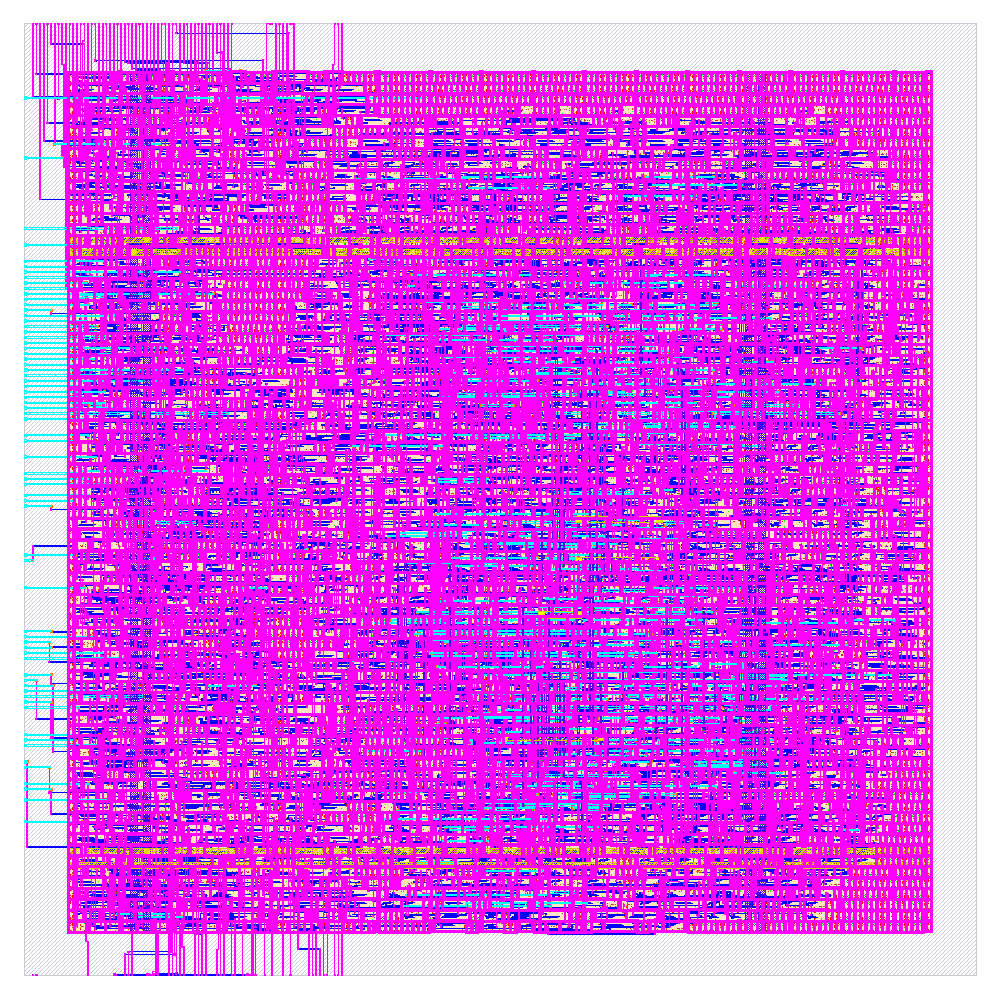
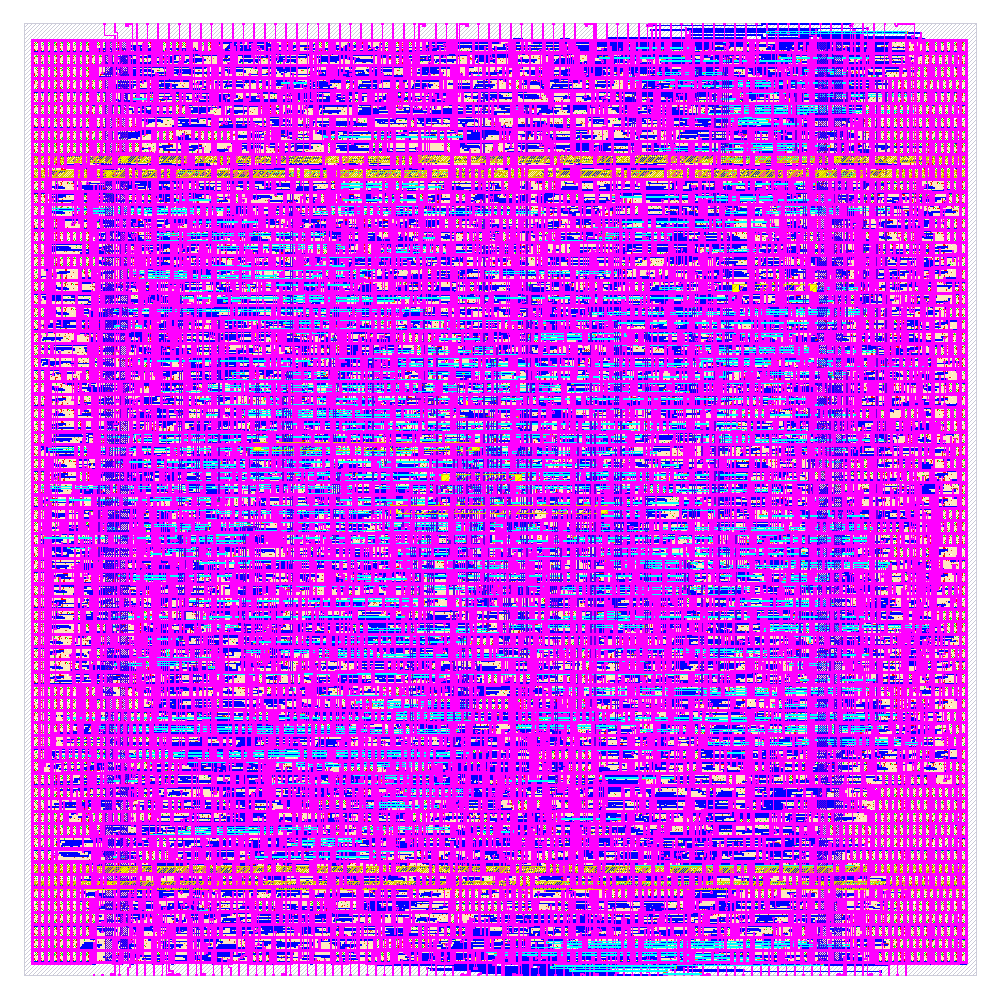
results, SERV flow: sync to the final SERV layout s8 (205 x 205 um, 76 MHz)
SERV sky130: config (76 MHz, 205 um die, nano margins) + pin_order.cfg (pins N + S), metrics
and render of run s8 (30 657 um2 cells, 76.8 %, clean, ss setup +1.67 ns, hold +93 ps).
results/README.md: die 42 025 um2 (nano 1.76x smaller), cpi_bench 803 ms (nano 2.67x faster,
2.4x at equal margin), energy 5.338 uJ (6.5x), 4.7x speed per area; margin and density notes.
bench/cpi_test/README.md: SERV rows at 76 MHz (nano 2.4x sooner).
fc32e1s_nano_asic README: block diagram, single-stage multi-cycle note.

diff --git a/results/README.md b/results/README.md
@@ -9,18 +9,18 @@ FPGA, each against SERV built for the same target:
 | ASIC, SkyWater sky130 | `fc32e1s_nano_asic` (byte-serial ALU, latch register file) | SERV RV32E, latch register file |
 | FPGA, Xilinx 7-series (Vivado) | `fc32e1s_nano_fpga` (32-bit ALU, LUTRAM register file) | SERV, register file in block RAM |
 
-Date: 2026-11-08.
+Date: 2026-11-11 (SERV sky130 layout s8).
 
 ## Summary
 
 | | ASIC (sky130) | FPGA (Vivado, core alone) |
 |---|---|---|
-| nano runs the benchmark | **2.4x faster** (2.1x at equal timing margin) | **6.7x faster** |
-| at a clock of | 36 MHz vs SERV's 85 MHz | 81.7 MHz vs SERV's 150.4 MHz |
-| size | **2.4x smaller die** | 4.3x more LUTs (529 vs 123); SERV + 1 RAMB18 |
-| other | **6.4x less energy** (gate-level activity) | **1.56x more speed per LUT** |
+| nano runs the benchmark | **2.7x faster** (2.4x at equal timing margin) | **6.7x faster** |
+| at a clock of | 36 MHz vs SERV's 76 MHz | 81.7 MHz vs SERV's 150.4 MHz |
+| size | **1.76x smaller die** | 4.3x more LUTs (529 vs 123); SERV + 1 RAMB18 |
+| other | **6.5x less energy** (gate-level activity) | **1.56x more speed per LUT** |
 
-SERV clocks 2.4x (ASIC) and 1.8x (FPGA) higher, but needs 5.6x and 12.4x more cycles for the
+SERV clocks 2.1x (ASIC) and 1.8x (FPGA) higher, but needs 5.6x and 12.4x more cycles for the
 same C program. On sky130 the nano is both smaller and faster; on an FPGA SERV stays the smallest
 core and the nano buys 6.7x the speed for 4.3x the LUTs.
 
@@ -58,22 +58,22 @@ layouts are the core with its bus pins. Configs and metrics are in [`sky130/`](s
 | ISA, registers | RV32E, 6 (x0 ra sp a0..a2) | RV32E, 16 (x0..x15) |
 | Datapath | byte-serial ALU | bit-serial |
 | Register file | latches, one clock gate per byte lane | latches (`dlxtp_1`), one clock gate per word |
-| Die | 153.5 x 155.3 um = **23 843 um2** | 238 x 238 um = **56 644 um2** |
-| Standard cells | **18 505 um2** | **30 895 um2** |
+| Die | 153.5 x 155.3 um = **23 843 um2** | 205 x 205 um = **42 025 um2** |
+| Standard cells | **18 505 um2** | **30 657 um2** |
 | of which sequential | 5 095 um2 | 13 992 um2 |
-| Cell density (fill excluded) | 82.7 % | 66.6 % |
-| Clock (signed off) | **36 MHz** (ss Fmax 37.0 MHz, max RC) | **85 MHz** (ss setup slack +1.59 ns) |
-| Hold, worst | +0.106 ns | +0.0015 ns |
+| Cell density (fill excluded) | 82.7 % | 76.8 % |
+| Clock (signed off) | **36 MHz** (ss Fmax 37.0 MHz, max RC) | **76 MHz** (ss setup slack +1.67 ns) |
+| Hold, worst | +0.106 ns | +0.093 ns |
 | DRC (Magic, KLayout) / LVS / antenna | clean | clean |
 | Max slew (1.1 ns limit) | 1 net at 1.13 ns (ss) | clean |
-| Wire length | 67.7 mm | 68.8 mm |
-| Power, CPI test activity (tt) | **0.777 mW** at 36 MHz | **2.279 mW** at 85 MHz |
-| Power, vectorless (OpenSTA / LibreLane) | 1.95 / 2.33 mW | 4.82 / 5.71 mW |
+| Wire length | 67.7 mm | 74.6 mm |
+| Power, CPI test activity (tt) | **0.777 mW** at 36 MHz | **2.062 mW** at 76 MHz |
+| Power, vectorless (OpenSTA / LibreLane) | 1.95 / 2.33 mW | 4.40 / 5.22 mW |
 
 | fc32e1s_nano_asic | SERV, RV32E |
 |---|---|
 | ![fc32e1s_nano_asic layout](sky130/fc32e1s_nano_asic/fc32e1s_nano_asic_hard.png) | ![SERV layout](sky130/serv_rv32e/serv_rf_top_latch.png) |
-| 153.5 x 155.3 um | 238 x 238 um (images are not to the same scale) |
+| 153.5 x 155.3 um | 205 x 205 um, pins on N + S (images are not to the same scale) |
 
 Performance, `cpi_bench`, at each core's signed-off clock:
 
@@ -81,16 +81,16 @@ Performance, `cpi_bench`, at each core's signed-off clock:
 |---|---|---|---|
 | Cycles | 10 839 619 | 61 037 635 | 5.6x fewer |
 | CPI | 7.40 | 55.42 | |
-| Complete time | 10.84 M / 36 MHz = **301 ms** | 61.04 M / 85 MHz = **718 ms** | 2.39x faster |
-| Effective MIPS | **3.66** | **1.53** | 2.39x |
-| Native MIPS | 4.87 | 1.53 | |
+| Complete time | 10.84 M / 36 MHz = **301 ms** | 61.04 M / 76 MHz = **803 ms** | 2.67x faster |
+| Effective MIPS | **3.66** | **1.37** | 2.67x |
+| Native MIPS | 4.87 | 1.37 | |
 | Code (.text) | 5 460 B | 4 972 B | 1.10x larger |
-| Die area | 23 843 um2 | 56 644 um2 | 2.38x smaller |
-| Speed per die area | | | 5.7x |
-| Energy, from the CPI test's energy per cycle | 21.6 pJ x 10.84 M = **234 uJ** | 26.8 pJ x 61.04 M = **1637 uJ** | 7.0x less |
+| Die area | 23 843 um2 | 42 025 um2 | 1.76x smaller |
+| Speed per die area | | | 4.7x |
+| Energy, from the CPI test's energy per cycle | 21.6 pJ x 10.84 M = **234 uJ** | 27.2 pJ x 61.04 M = **1661 uJ** | 7.1x less |
 
-CPI test: nano 36 392 cycles, 1.01 ms (3.49 effective MIPS); SERV 183 729 cycles, 2.16 ms
-(1.63); 2.1x.
+CPI test: nano 36 392 cycles, 1.01 ms (3.49 effective MIPS); SERV 183 729 cycles, 2.42 ms
+(1.46); 2.4x.
 
 **Energy, measured.** `cpi_bench` (5.5 KiB) does not fit the nano layout's 2 KiB instruction
 space, so the energy is measured with the CPI test, which runs on both final netlists:
@@ -101,23 +101,23 @@ with the layout's parasitics at tt 025C 1v80 ([`../bench/power`](../bench/power)
 | CPI test, reset to end | fc32e1s_nano_asic | SERV, RV32E | |
 |---|---|---|---|
 | Cycles / instructions | 38 066 / 5 482 | 196 149 / 3 744 | |
-| Time | 1057 us at 36 MHz | 2307 us at 85 MHz | |
-| Power | **0.777 mW** (sequential 0.208, combinational 0.370, clock 0.199) | **2.279 mW** (sequential 1.243, combinational 0.215, clock 0.821) | |
-| Energy | **0.821 uJ** | **5.259 uJ** | **6.4x less** |
-| per cycle | 21.6 pJ | 26.8 pJ | 1.24x less |
-| per instruction | 150 pJ | 1405 pJ | |
+| Time | 1057 us at 36 MHz | 2589 us at 76 MHz | |
+| Power | **0.777 mW** (sequential 0.208, combinational 0.370, clock 0.199) | **2.062 mW** (sequential 1.111, combinational 0.195, clock 0.756) | |
+| Energy | **0.821 uJ** | **5.338 uJ** | **6.5x less** |
+| per cycle | 21.6 pJ | 27.2 pJ | 1.26x less |
+| per instruction | 150 pJ | 1426 pJ | |
 
 The real activity is 2.5x (nano) and 2.1x (SERV) lower than the vectorless estimates. SERV
 spends more energy per cycle (most of it in its sequential cells and its clock tree)
 and needs 5.2x the cycles. The energy per program does not depend on the clock (power scales
 with it), so the equal-margin comparison changes only the time, not the energy.
 
-- **Clock margins differ.** At the slow corner (ss 100C 1.60 V, max RC) SERV runs 85 MHz against
-  an Fmax of about 98 MHz (13.5 % margin), the nano 36 MHz against 37.0 MHz (2.7 %; 39.5 MHz at
-  min RC). Compared at their Fmax, or both at 13.5 % margin (nano 32 MHz), the nano finishes
-  `cpi_bench` **2.1x** sooner (293 vs 621 ms) instead of 2.4x.
-- **Densities differ.** SERV was laid out at 60-67 % cell density, the nano at 82.7 %. At the
-  nano's density SERV's die would be about 46 400 um2, still 1.9x the nano's.
+- **Clock margins differ.** At the slow corner (ss 100C 1.60 V, max RC) SERV runs 76 MHz against
+  an Fmax of about 86.7 MHz (12.7 % margin), the nano 36 MHz against 37.0 MHz (2.7 %; 39.5 MHz at
+  min RC). Compared at their Fmax (293 vs 704 ms), or both at 12.7 % margin (nano 32.3 MHz, 336
+  vs 803 ms), the nano finishes `cpi_bench` **2.4x** sooner instead of 2.7x.
+- **Densities differ.** SERV was laid out at 76.8 % cell density, the nano at 82.7 %. At the
+  nano's density SERV's die would be about 39 000 um2, still 1.6x the nano's.
 - **Power** is simulation-annotated at the typical corner with zero-delay activity (no glitches,
   so combinational switching is a lower bound), not a silicon measurement. `cpi_bench`'s energy
   is the CPI test's energy per cycle times `cpi_bench`'s cycles.

diff --git a/bench/cpi_test/README.md b/bench/cpi_test/README.md
@@ -31,8 +31,8 @@ SERV, so its CPI compares with the nano cores' on the same instructions.
 | fc32e1s_nano_fpga | `-mnano` | 1044 B | 18 304 | 5 228 | **3.50** | 61.6 MHz (GW2A) | 297.1 us | **11.86** |
 | fc32e1s_nano_fpga subsystem (block RAM) | `-mnano` | 1044 B | 18 304 | 5 228 | **3.50** | 61.6 MHz (GW2A) | 297.1 us | **11.86** |
 | fc32e1s_nano_asic | `-mnano` | 1044 B | 36 392 | 5 228 | **6.96** | 36 MHz (sky130) | 1010.9 us | **3.49** |
-| SERV (RV32E) | RV32E | 808 B | 183 729 | 3 525 | **52.12** | 85 MHz (sky130) | 2161.5 us | **1.63** |
-| SERV (RV32E), nano image | `-mnano` | 1044 B | 299 923 | 5 228 | **57.37** | 85 MHz (sky130) | 3528.5 us | 1.00 |
+| SERV (RV32E) | RV32E | 808 B | 183 729 | 3 525 | **52.12** | 76 MHz (sky130) | 2417.5 us | **1.46** |
+| SERV (RV32E), nano image | `-mnano` | 1044 B | 299 923 | 5 228 | **57.37** | 76 MHz (sky130) | 3946.4 us | 0.89 |
 | SERV FPGA board top (block RAM) | RV32E | 808 B | 183 729 | 3 525 | **52.12** | 139.8 MHz (GW2A) | 1314.0 us | **2.68** |
 
 Complete time = cycles / clock, at each core's signed-off sky130 clock or GW2A place-and-route
@@ -41,5 +41,5 @@ count, 3 525) / complete time, so extra instructions count against a core.
 
 With 6 registers the code is 29 % larger and runs 48 % more instructions than SERV's 16-register
 build; the nano cores still need 10.0x (FPGA) and 5.0x (ASIC) fewer cycles than SERV on its own
-code. On sky130 the nano ASIC finishes 2.1x sooner (36 MHz) than SERV (85 MHz); on GW2A the nano
+code. On sky130 the nano ASIC finishes 2.4x sooner (36 MHz) than SERV (76 MHz); on GW2A the nano
 board top finishes 4.4x sooner (61.6 MHz) than the SERV board top (139.8 MHz).

diff --git a/cores/fc32e1s_nano_asic/README.md b/cores/fc32e1s_nano_asic/README.md
@@ -7,6 +7,10 @@ AXI4-Lite instruction and data ports. Software: `riscv32-nano-elf-gcc -mnano`
 ([`../../toolchain`](../../toolchain)). FPGA build of the same core:
 [`fc32e1s_nano_fpga`](../fc32e1s_nano_fpga).
 
+![fc32e1s_nano_asic_core block diagram](doc/block_diagram.svg)
+
+Single-stage and multi-cycle: one instruction at a time, a fetch then 1 or more execute cycles.
+
 | | |
 |---|---|
 | sky130 layout (core alone) | 153.5 x 155.3 um = 23 843 um2, 82.7 % density, **36 MHz** signed off in 9 corners |
